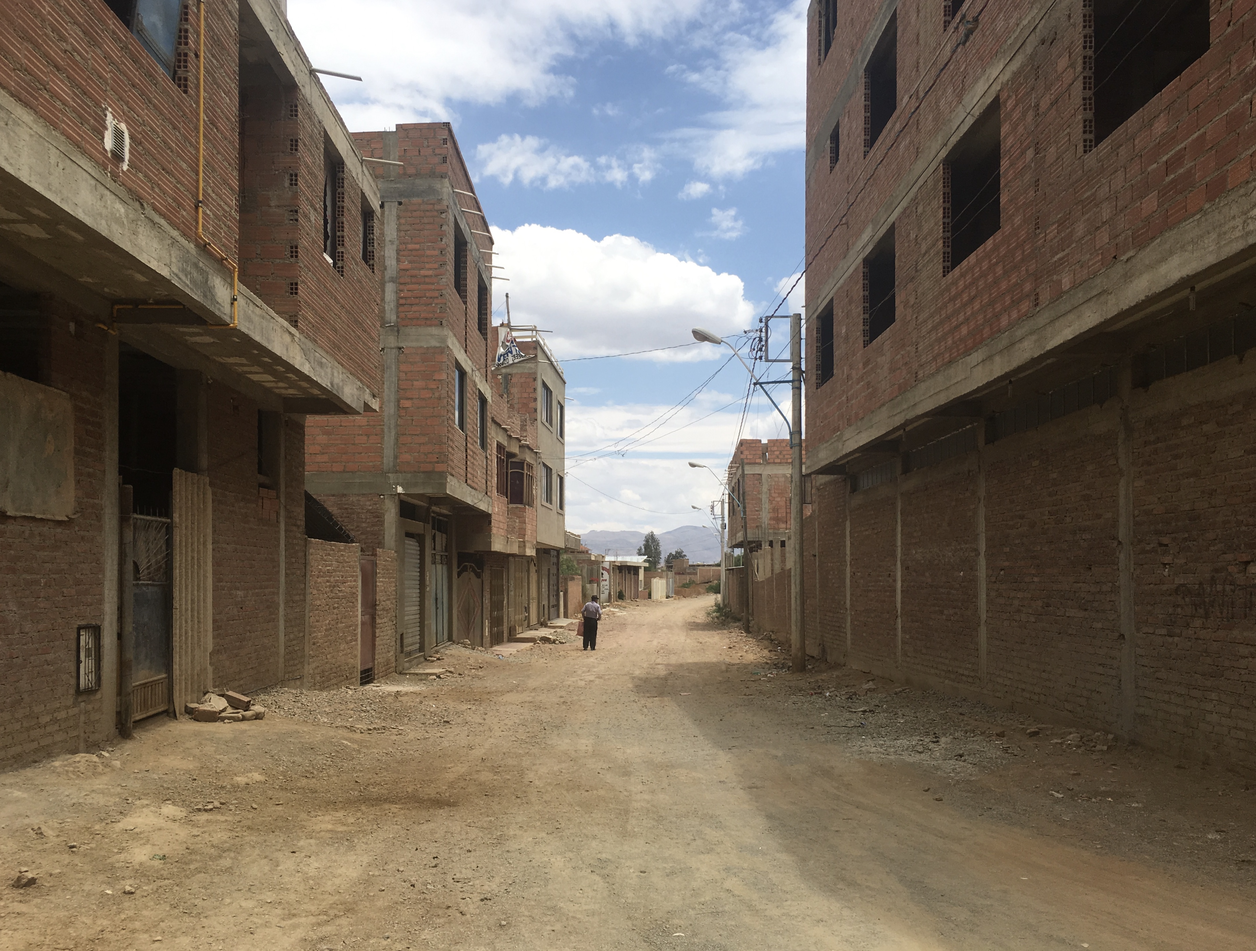
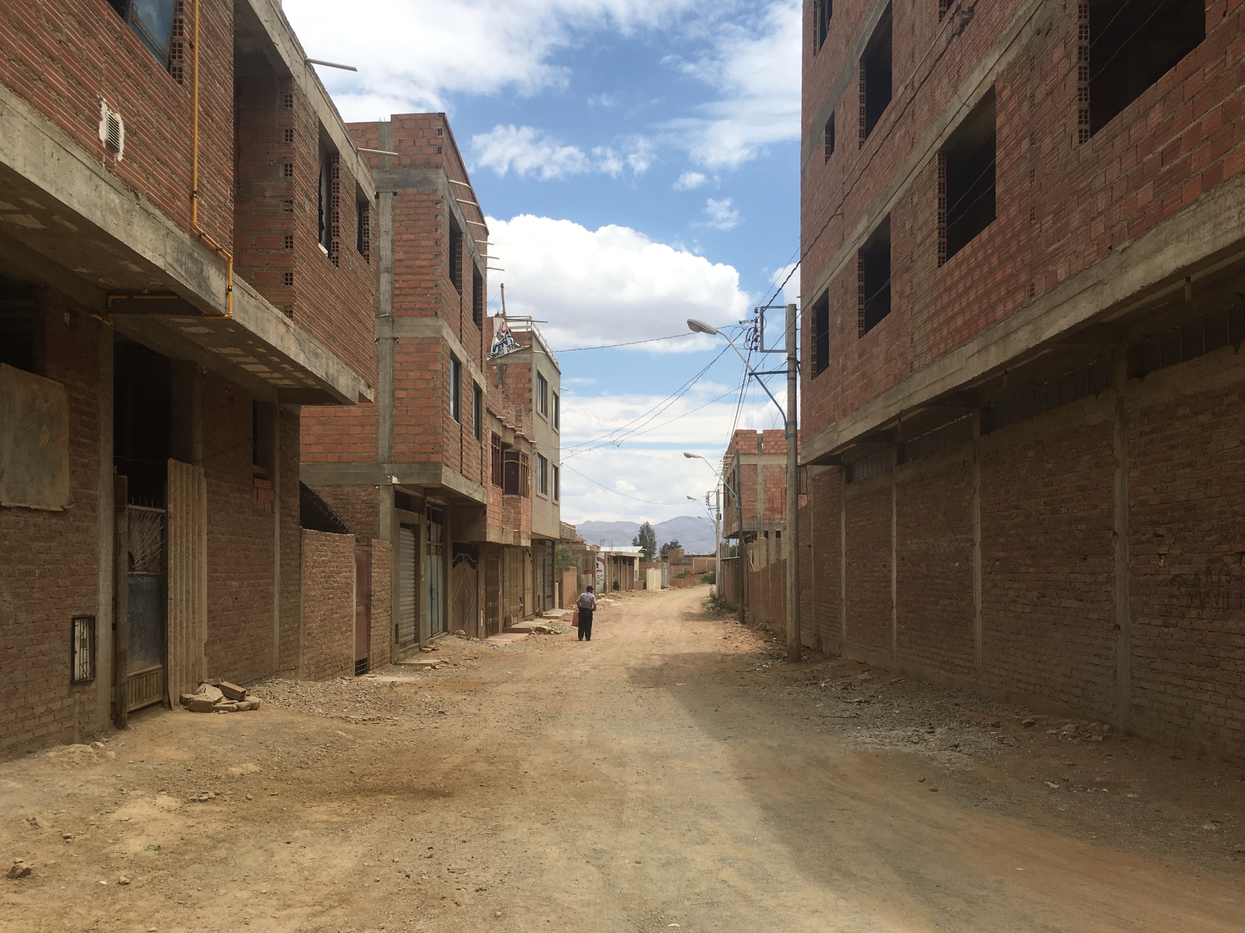
pic ratio updates

diff --git a/index.py b/index.py
@@ -260,7 +260,7 @@ def set_cities_options(selected_country):
 def set_display_children(value):
     # sleep time for spinner to spin
     if value is not None:
-        time.sleep(1.5)
+        time.sleep(2)
     # Andorra
     if value == 'Pal Arinsal':
         lat_lon_str = weather.get_lat_lon(coordinates.pal_geojson)
@@ -1447,8 +1447,6 @@ def set_display_children(value):
                         {"src": "assets/france/strasbourg3.JPG"},
                         {"src": "assets/france/strasbourg4.JPG"},
                         {"src": "assets/france/strasbourg5.JPG"},
-                        {"src": "assets/france/strasbourg6.JPG"},
-
                     ],
                     interval=2000,
                     ride="carousel",
@@ -1654,6 +1652,7 @@ def set_display_children(value):
                         {"src": "assets/germany/dresden3.JPG"},
                         {"src": "assets/germany/dresden4.JPG"},
                         {"src": "assets/germany/dresden6.JPG"},
+                        {"src": "assets/germany/dresden7.JPG"},
                     ],
                     interval=2000,
                     ride="carousel",
@@ -2596,6 +2595,8 @@ def set_display_children(value):
                         {"src": "assets/morocco/tangier4.JPG"},
                         {"src": "assets/morocco/tangier5.JPG"},
                         {"src": "assets/morocco/tangier6.JPG"},
+                        {"src": "assets/morocco/tangier7.JPG"},
+                        {"src": "assets/morocco/tangier8.JPG"},
                     ],
                     interval=2000,
                     ride="carousel",

diff --git a/weather.py b/weather.py
@@ -39,7 +39,7 @@ def update_weather(location):
     # weather_icons = weather_icons.strip("[]")
     # print(weather_icons)
 
-    weather_str = 'Current weather: ', weather_descriptions, ', '
+    weather_str = 'Current weather: \n', weather_descriptions, ', '
     weather_str1 = temp, '°F ('
     weather_str2 = c_temp, '°C)'
     final_weather_str = weather_str + weather_str1 + weather_str2
